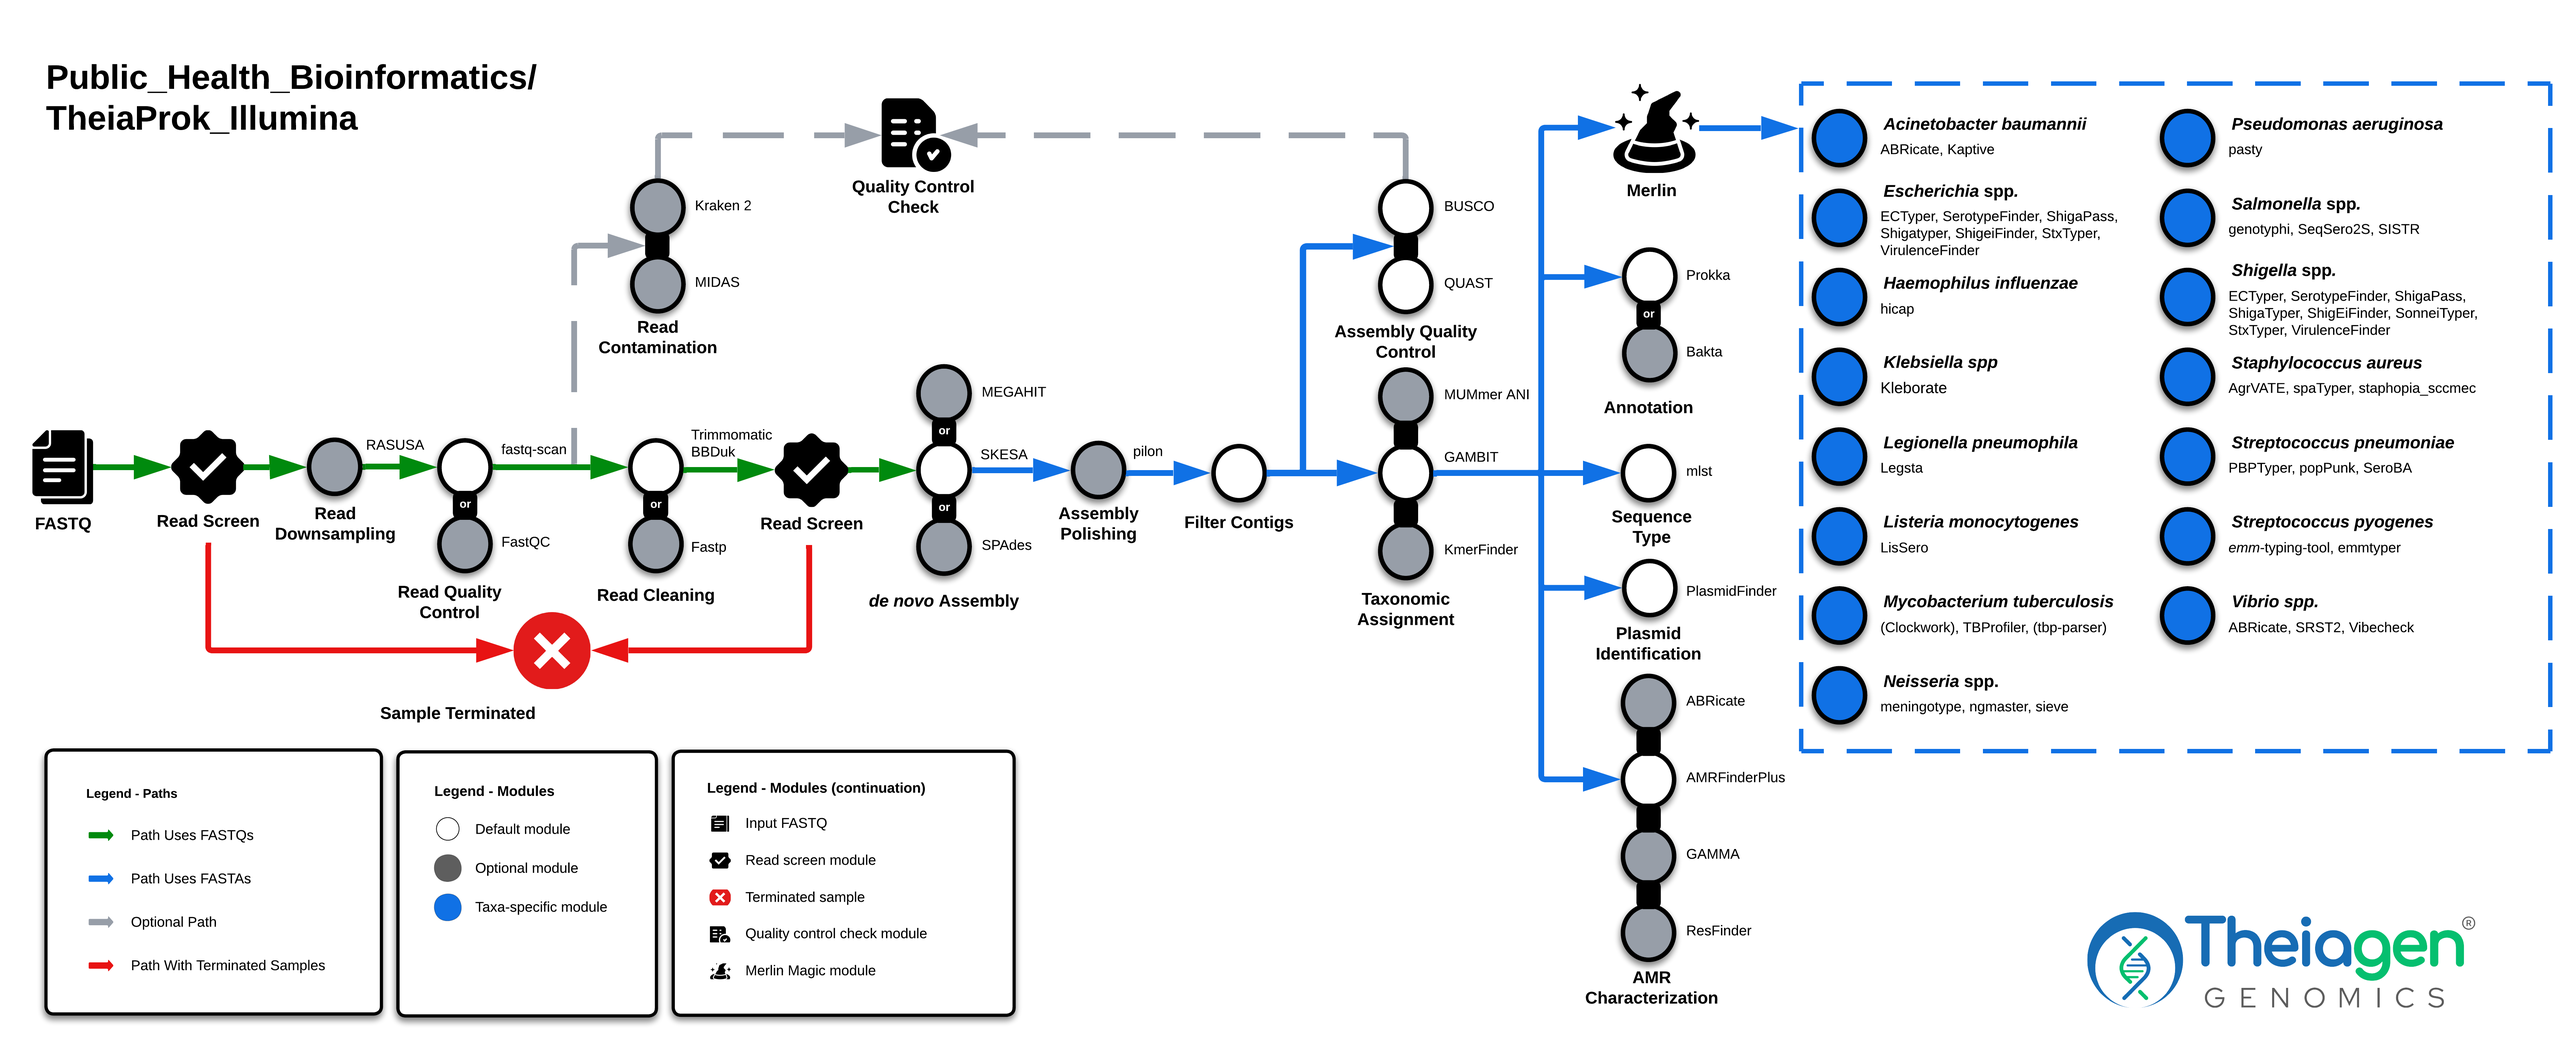
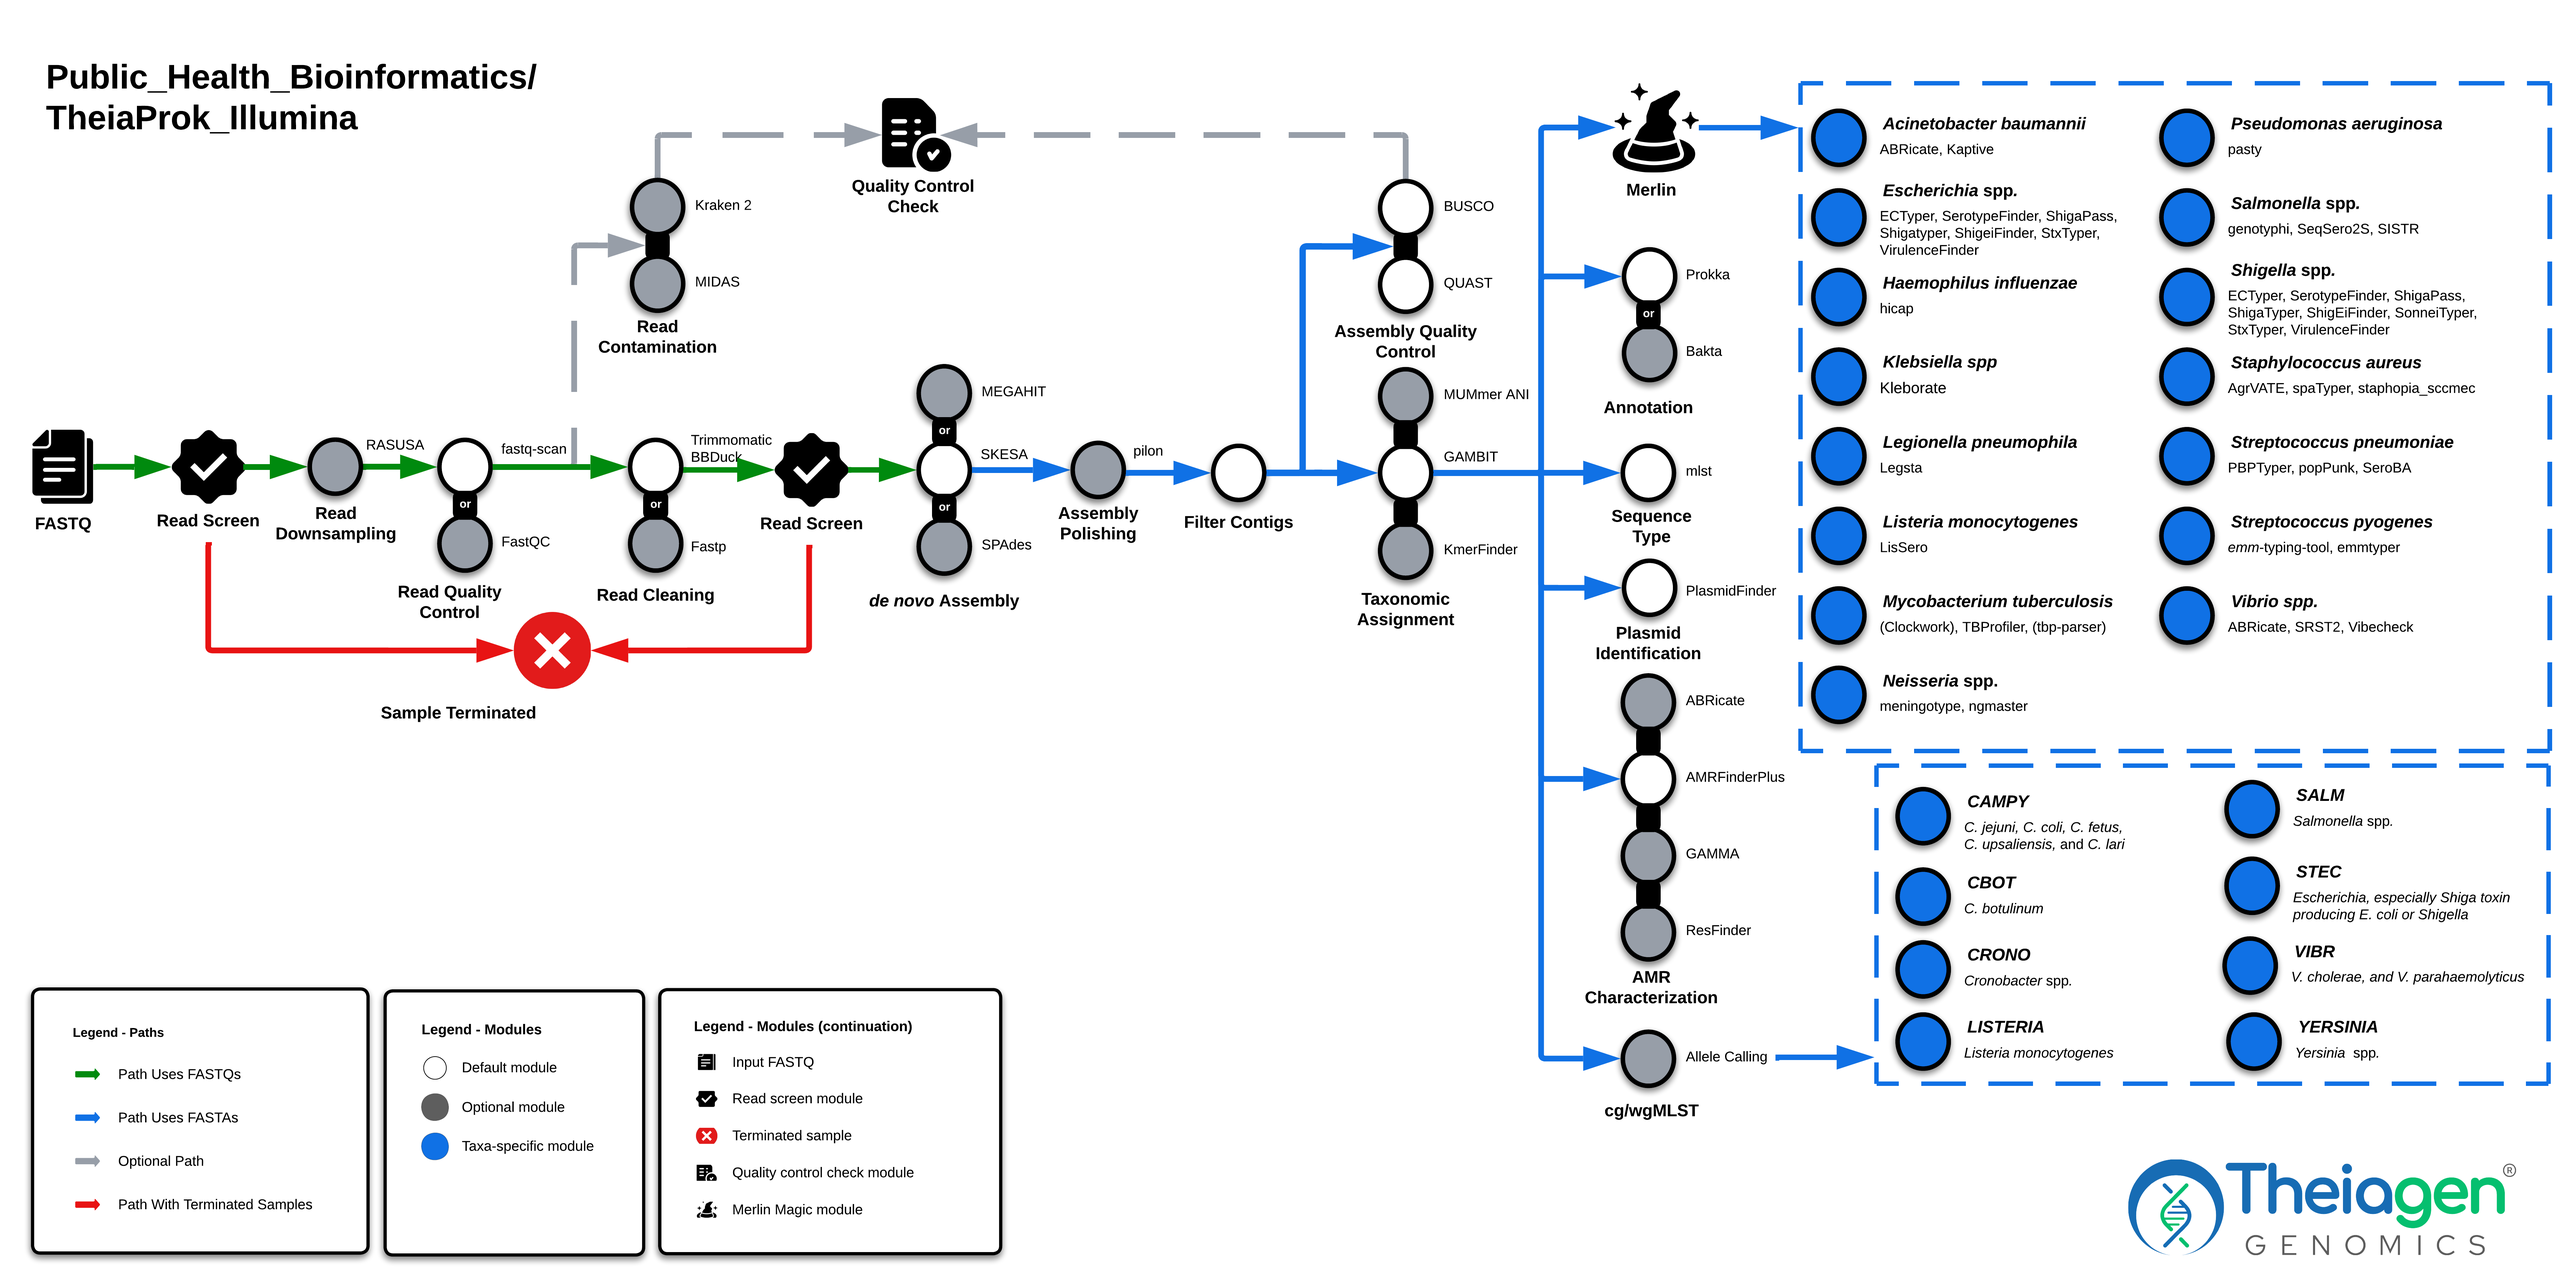
Update diagrams for TheiaProk and add Allele CLustering diagram

diff --git a/docs/workflows/phylogenetic_construction/allele_clustering.md b/docs/workflows/phylogenetic_construction/allele_clustering.md
@@ -8,6 +8,13 @@
 
 The Allele Clustering module is used by PulseNet 2.0 to generate NWK trees for visualization, using the results from the `allele_clustering` task in TheiaProk.
 
+=== "Allele_Clustering_PHB"
+
+    !!! caption "Allele Clustering Workflow Overview"
+        <div style="text-align: center;">
+        ![Allele Clustering workflow taking cg- or wgMLST results and generating a dendogram in Newick format and an allele difference distance matrix.](../../assets/figures/Allele_Clustering.png){: onload="this.width/=2;this.onload=null;" }
+        </div>
+
 ### Inputs
 
 !!! dna "`tree_building_algorithm` options"
